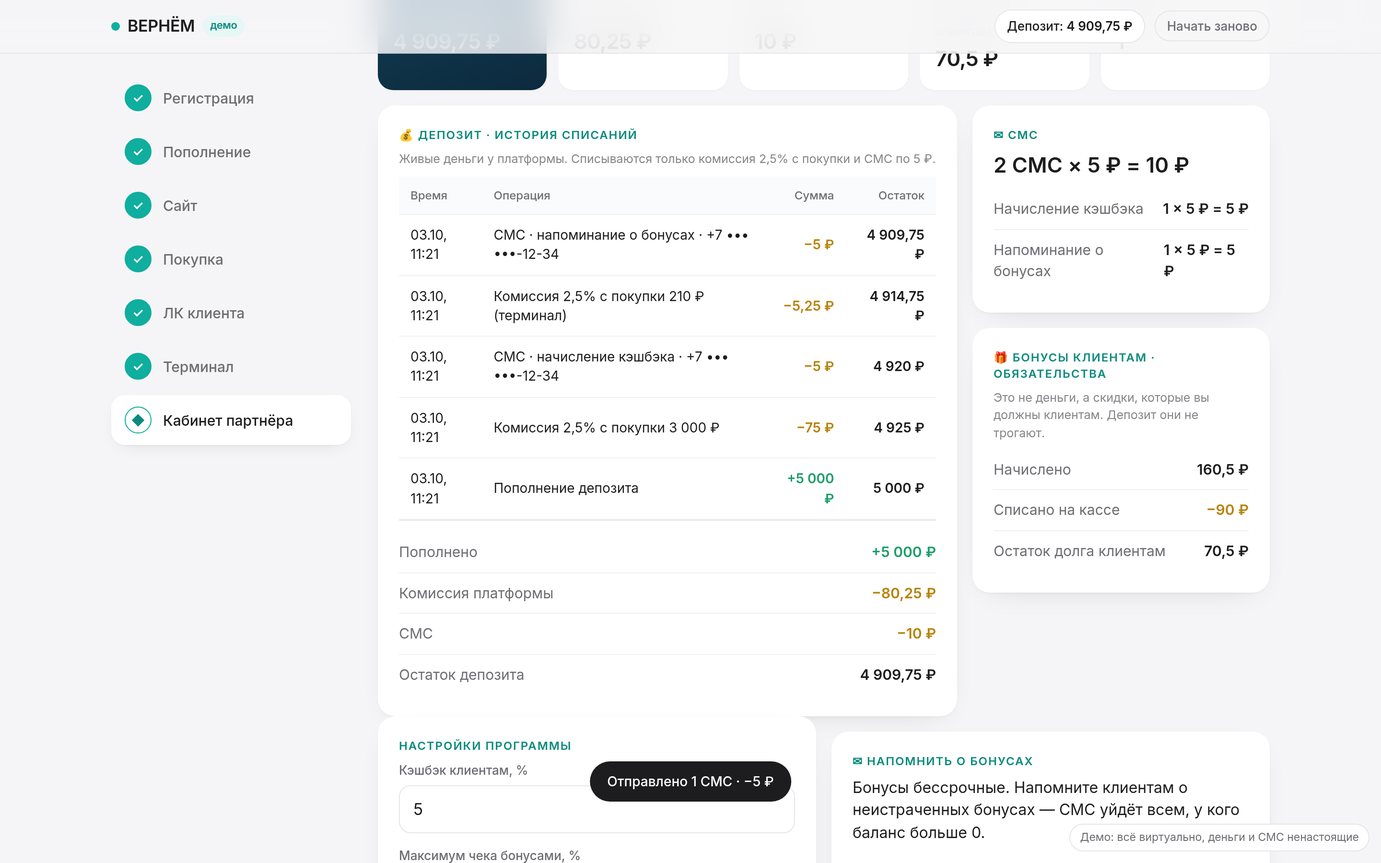
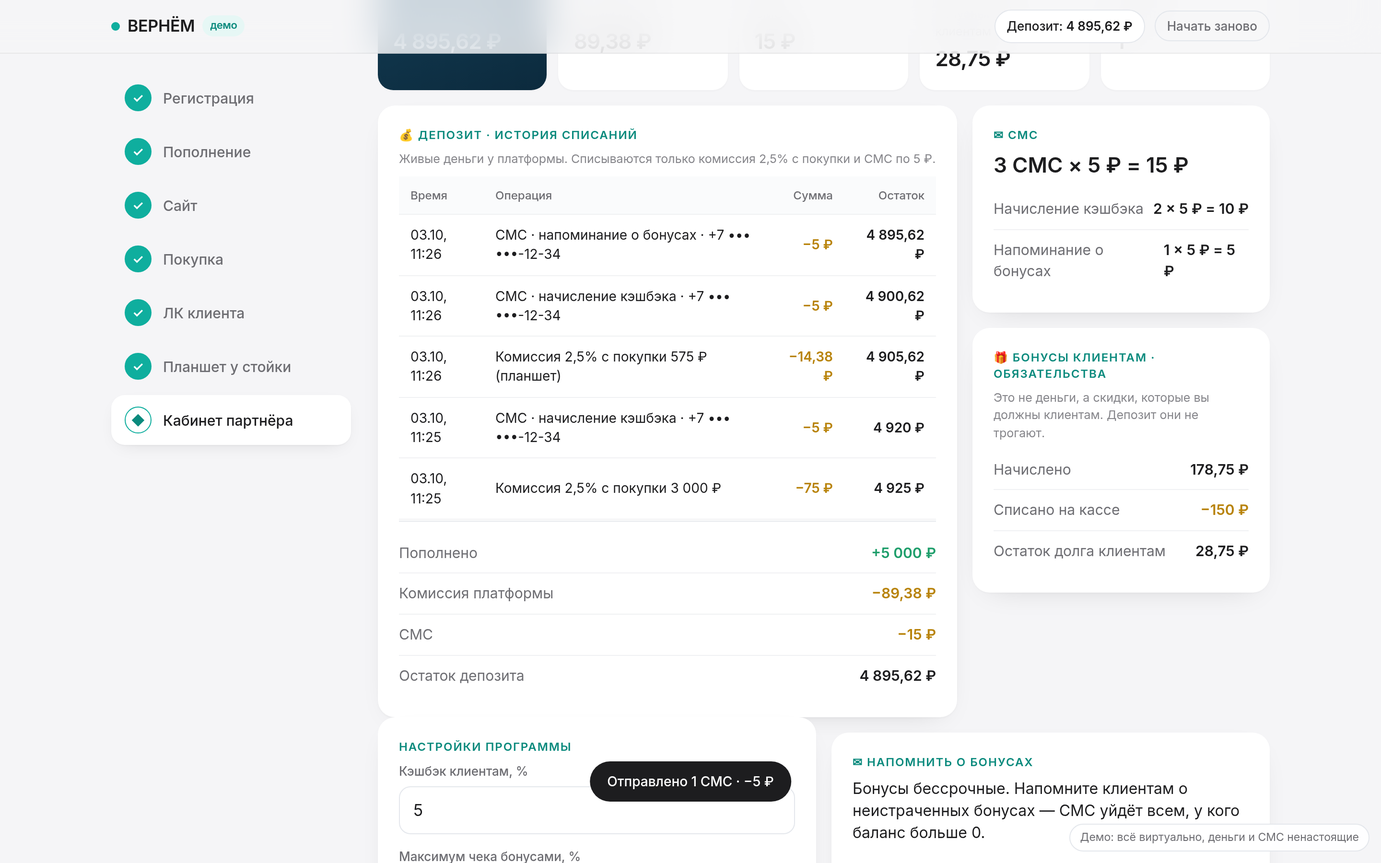
Step 6: self-service tablet at the counter (phone -> cabinet -> menu -> bonuses up to 30% -> code -> order)

diff --git a/demo/index.html b/demo/index.html
@@ -6,7 +6,7 @@
 <meta name="robots" content="noindex, nofollow">
 <meta name="googlebot" content="noindex, nofollow">
 <title>ВЕРНЁМ — интерактивное демо</title>
-<meta name="description" content="Виртуальное демо кэшбэк-платформы ВЕРНЁМ: регистрация партнёра, сайт, покупка, кэшбэк, ЛК клиента, терминал.">
+<meta name="description" content="Виртуальное демо кэшбэк-платформы ВЕРНЁМ: регистрация партнёра, сайт, покупка, кэшбэк, ЛК клиента, планшет у стойки.">
 <meta property="og:title" content="ВЕРНЁМ — интерактивное демо">
 <meta property="og:image" content="https://verniom.github.io/og.jpg">
 <meta property="og:url" content="https://verniom.github.io/demo/">
@@ -280,6 +280,34 @@ tr.me td{background:var(--tint)}tr.tot td{font-weight:600;border-top:1.5px solid
 .bal .s{font-weight:600}
 
 .stage.s5{grid-template-columns:300px minmax(0,1fr)}.stage.s6{grid-template-columns:320px minmax(0,1fr)}
+.tablet{max-width:1024px;margin:0 auto 10px;background:#1D1D1F;border-radius:30px;padding:14px;box-shadow:0 30px 60px -28px rgba(16,24,40,.45)}
+.tscreen{background:#FAFAFA;border-radius:18px;aspect-ratio:16/10;overflow:hidden;display:flex;flex-direction:column;color:var(--ink)}
+.ttop{display:flex;justify-content:space-between;align-items:center;padding:12px 18px;background:#fff;border-bottom:1px solid #EEE;font-size:15px}.tmeta{font-size:13px;color:var(--grey)}
+.tlink{background:none;border:none;color:var(--brand-d);font:inherit;cursor:pointer;padding:0}
+.tphone{flex:1;display:grid;grid-template-columns:1fr 1fr;gap:24px;align-items:center;padding:20px 36px}
+.tph-l h3{font-size:26px;margin:0 0 8px;font-weight:600;letter-spacing:-.01em}.tph-l p{color:var(--grey);margin:0 0 18px;font-size:15px}
+.tdisp{font-size:28px;font-weight:600;letter-spacing:.02em;padding:14px 18px;background:#fff;border-radius:16px;border:1px solid #EAEAEA}.tdisp span{color:#C7C7CC}.tdisp.code{letter-spacing:.3em;text-align:center}
+.tquick{margin-top:12px;border:1px solid var(--brand);background:var(--tint);color:var(--brand-d);border-radius:980px;padding:10px 16px;font:inherit;font-size:14px;cursor:pointer}
+.tpad{display:grid;grid-template-columns:repeat(3,1fr);gap:10px;max-width:330px;margin-left:auto}
+.tk{height:58px;border-radius:16px;border:none;background:#fff;box-shadow:0 1px 0 #E5E5EA;font:inherit;font-size:22px;cursor:pointer}.tk.ok{background:var(--brand);color:#fff}
+.tcab{flex:1;display:grid;grid-template-columns:250px 1fr;min-height:0}
+.tside{background:#fff;border-right:1px solid #EEE;padding:16px;display:flex;flex-direction:column;gap:12px;overflow:auto}
+.thello{font-size:20px;font-weight:600}.tbal{background:var(--tint);border-radius:16px;padding:12px}.tbal small,.thist small{display:block;font-size:12px;color:var(--grey)}.tbal b{display:block;font-size:28px;font-weight:700;color:var(--brand-d);margin:2px 0}.tbal span{font-size:11.5px;color:var(--grey)}
+.thist div{display:flex;justify-content:space-between;gap:8px;font-size:12.5px;padding:6px 0;border-bottom:1px solid #F2F2F2}.thist b{font-weight:600;white-space:nowrap}
+.tmenu{display:flex;flex-direction:column;min-height:0;padding:14px 16px}.tmh{font-size:18px;font-weight:600;margin-bottom:10px}
+.tgrid{flex:1;display:grid;grid-template-columns:repeat(3,1fr);gap:10px;overflow:auto;align-content:start}
+.tcard{background:#fff;border-radius:16px;border:1.5px solid transparent;position:relative}.tcard.on{border-color:var(--brand)}
+.tadd{width:100%;background:none;border:none;font:inherit;text-align:left;padding:10px 12px;cursor:pointer;display:flex;flex-direction:column;gap:2px}.tadd .pic{width:56px;height:56px}
+.tn{font-size:14px;font-weight:500;line-height:1.25}.td{font-size:11.5px;color:var(--grey)}.tp{font-size:14px;font-weight:600;margin-top:2px}
+.tq{position:absolute;right:8px;top:8px;display:flex;align-items:center;gap:8px;background:var(--tint);border-radius:980px;padding:3px}.tq button{width:28px;height:28px;border-radius:50%;border:none;background:#fff;font-size:16px;cursor:pointer}.tq b{min-width:12px;text-align:center}
+.tbar{margin-top:10px;display:flex;justify-content:space-between;align-items:center;border:none;border-radius:980px;background:var(--brand);color:#fff;font:inherit;font-size:15px;padding:14px 22px;cursor:pointer}.tbar:disabled{background:#D1D1D6;cursor:default}
+.tco{flex:1;display:grid;grid-template-columns:1fr 1fr;gap:20px;padding:18px 26px;overflow:auto}.tco h3{margin:0 0 8px;font-size:20px;font-weight:600}
+.tuse{background:#fff;border-radius:16px;padding:12px 14px;margin-bottom:8px}.tuse small{font-size:12px;color:var(--grey)}.tuse-row{display:flex;align-items:center;justify-content:space-between;margin:6px 0}.tuse-row b{font-size:24px;font-weight:700;color:var(--brand-d)}
+.tuse-row button,.tuse-q button{border:1px solid #E5E5EA;background:#fff;border-radius:980px;font:inherit;cursor:pointer}.tuse-row button{width:40px;height:40px;font-size:20px}.tuse input{width:100%;accent-color:#0FAE9E}.tuse-q{display:flex;gap:8px}.tuse-q button{padding:6px 12px;font-size:13px}
+.tdone{flex:1;display:flex;flex-direction:column;align-items:center;justify-content:center;text-align:center;padding:18px}.tok{width:64px;height:64px;border-radius:50%;background:var(--tint);color:var(--brand-d);font-size:32px;display:flex;align-items:center;justify-content:center}
+.tdone h3{font-size:26px;margin:12px 0 4px;font-weight:600}.tdone p{color:var(--grey);margin:0 0 14px}.tdone-k{display:grid;grid-template-columns:repeat(4,1fr);gap:10px;margin-bottom:14px}.tdone-k div{background:#fff;border-radius:14px;padding:10px 14px}.tdone-k small{display:block;font-size:12px;color:var(--grey)}.tdone-k b{font-size:17px}
+@media (max-width:820px){.tablet{padding:6px;border-radius:22px;margin:0 -4px 10px}.tscreen{aspect-ratio:auto;border-radius:16px}.tphone,.tco{grid-template-columns:1fr;padding:16px;gap:14px}.tpad{margin:0 auto;max-width:none}.tph-l h3{font-size:22px}
+ .tcab{grid-template-columns:1fr}.tside{border-right:none;border-bottom:1px solid #EEE}.thist{display:none}.tgrid{grid-template-columns:repeat(2,1fr);overflow:visible}.tdone-k{grid-template-columns:repeat(2,1fr)}}
 @media (max-width:980px){.stage.s5,.stage.s6{grid-template-columns:minmax(0,1fr)}.kpis{grid-template-columns:repeat(2,1fr)}.stage{grid-template-columns:minmax(0,1fr)}}
 @media (max-width:820px){
  .layout{grid-template-columns:1fr;gap:14px;padding:12px 12px 90px}
@@ -314,7 +342,7 @@ tr.me td{background:var(--tint)}tr.tot td{font-weight:600;border-top:1.5px solid
 (function(){
 'use strict';
 var KEY='verniom_demo_v2',DAY=864e5,LOW=1000;
-var STEPS=[[1,'Регистрация'],[2,'Пополнение'],[3,'Сайт'],[4,'Покупка'],[5,'ЛК клиента'],[6,'Терминал'],[7,'Кабинет партнёра']];
+var STEPS=[[1,'Регистрация'],[2,'Пополнение'],[3,'Сайт'],[4,'Покупка'],[5,'ЛК клиента'],[6,'Планшет у стойки'],[7,'Кабинет партнёра']];
 var ADDR='ул. Братиславская, 14, Москва',HOURS='Ежедневно 8:00–22:00';
 var OTHER0={name:'Автомойка «Блеск»',bal:120,exp:'15.12.2026'},OTHER1={name:'kofa',bal:120,exp:'15.12.2026'},OTHER=OTHER0;
 function coffee(n){n=String(n||'').trim()||'kofa';return /кофейн|кафе|cafe|coffee|кофе(?![а-яё])/i.test(n)?n:'кофейня '+n;}
@@ -644,74 +672,94 @@ function v5(){
   '<div class="bal"><div class="t nett">'+logo(26)+esc(p.name)+'</div><div class="s" data-t="cbal">'+fmt(c.balance)+'</div><p>+'+p.cb+'% с покупки · только здесь · бессрочно</p></div>'+
   '<div class="bal2"><div class="nett">'+initAva(OTHER.name,30)+'<div><div class="t">'+esc(OTHER.name)+'</div><small>только в этой сети · бессрочно</small></div></div><b>'+fmt(OTHER.bal)+'</b></div>'+
   '<div class="lkc"><h4>История</h4>'+(c.hist.length?c.hist.slice(0,6).map(function(h){return '<div class="hr"><div>'+esc(h.txt)+'<small>'+h.t+' · '+fmt(h.amount)+'</small></div><div class="'+(h.d>=0?'plus':'minus')+'">'+(h.d>=0?'+':'−')+fmt(Math.abs(h.d))+'</div></div>';}).join(''):'<div class="hint">Пока пусто</div>')+'</div>'+
-  '<div class="lkc"><h4>PIN для оплаты в терминале</h4><div class="pinrow"><input id="pin" inputmode="numeric" maxlength="4" value="'+esc(c.pin)+'" aria-label="PIN"><button data-t="pin">Сохранить</button></div><div class="hint">По умолчанию 1234</div></div>'+
+  '<div class="lkc"><h4>PIN для заказа на планшете</h4><div class="pinrow"><input id="pin" inputmode="numeric" maxlength="4" value="'+esc(c.pin)+'" aria-label="PIN"><button data-t="pin">Сохранить</button></div><div class="hint">По умолчанию 1234</div></div>'+
   '</div></div></div></div>'+
   '<div class="card"><div class="eyebrow">Что видит клиент</div><div class="kv"><span>Телефон</span><b>'+esc(fmtPhone(c.phone))+'</b></div><div class="kv"><span>Бонусов в '+esc(qn(p.name))+'</span><b>'+fmt(c.balance)+'</b></div><div class="kv"><span>Бонусов в '+esc(qn(OTHER.name))+'</span><b>'+fmt(OTHER.bal)+'</b></div><div class="kv"><span>Всего начислено</span><b>'+fmt(c.accrued)+'</b></div><div class="kv"><span>Потрачено</span><b>'+fmt(c.spent)+'</b></div>'+
   '<div class="model"><b>Бонусы — внутри сети.</b> Кэшбэк из '+esc(qn(p.name))+' тратится только в '+esc(qn(p.name))+', бонусы '+esc(qn(OTHER.name))+' — только там. В одном кабинете клиент видит балансы всех сетей.</div>'+'<p class="hint">Вход по ссылке из SMS, без пароля. Бонусами можно оплатить до '+p.maxShare+'% чека в терминале по телефону и PIN.</p>'+
-  '<button class="btn wide next" data-t="to6">Оплатить бонусами в терминале →</button><button class="btn sec wide" style="margin-top:8px" data-t="back4">Купить ещё на сайте</button></div></div>';
+  '<button class="btn wide next" data-t="to6">Заказать на планшете у стойки →</button><button class="btn sec wide" style="margin-top:8px" data-t="back4">Купить ещё на сайте</button></div></div>';
 }
 function b5(){
   $('[data-t=pin]').onclick=function(){var v=digits($('#pin').value);if(v.length!==4){toast('PIN — 4 цифры');return;}client(S.last).pin=v;save();toast('PIN сохранён');};
   $('[data-t=to6]').onclick=function(){go(6);};$('[data-t=back4]').onclick=function(){go(4);};
 }
-/* ---------- STEP 6 ---------- */
-var T={st:'phone',ph:'',pin:'',amt:'',res:null};
-function calcT(c,a){var p=S.partner,cap=r2(a*p.maxShare/100),u=r2(Math.min(c.balance,cap)),pay=r2(a-u);return {cap:cap,u:u,pay:pay,cb:r2(pay*p.cb/100),comm:r2(pay*p.comm/100)};}
-function tscreen(){
-  var c=S.clients[normPhone(T.ph)];
-  if(T.st==='phone')return '<div class="lbl">Телефон клиента</div><div class="val">'+(T.ph?esc(T.ph):'<span style="opacity:.35">+7…</span>')+'</div><div class="sub">'+(S.last?'OK без ввода — клиент '+esc(maskPhone(S.last)):'Введите номер')+'</div>';
-  if(T.st==='pin')return '<div class="lbl">PIN клиента</div><div class="val">'+'•'.repeat(T.pin.length)+'<span style="opacity:.25">'+'•'.repeat(4-T.pin.length)+'</span></div><div class="sub">'+esc(maskPhone(T.ph))+'</div>';
-  if(T.st==='amt')return '<div class="lbl">Сумма покупки</div><div class="val">'+(T.amt||'0')+' ₽</div><div class="sub">Бонусов у клиента: '+fmt(c?c.balance:0)+' · до '+S.partner.maxShare+'% чека</div>';
-  if(T.st==='confirm'){var a=+T.amt,k=calcT(c,a);
-    return '<div class="lbl">Подтверждение</div><div class="kv"><span>Сумма</span><b>'+fmt(a)+'</b></div><div class="kv"><span>Бонусами (макс. '+S.partner.maxShare+'% = '+fmt(k.cap)+')</span><b>−'+fmt(k.u)+'</b></div><div class="kv"><span>Картой к оплате</span><b>'+fmt(k.pay)+'</b></div><div class="kv"><span>Новый кэшбэк</span><b>+'+fmt(k.cb)+'</b></div><div class="sub" style="margin-top:6px">OK — оплатить</div>';}
-  if(T.st==='done'){var r=T.res;return '<div class="lbl">Готово</div><div class="val" style="color:var(--green)">✓ Оплачено</div><div class="sub">Списано бонусов: '+fmt(r.used)+'<br>Картой: '+fmt(r.pay)+'<br>Начислено: +'+fmt(r.cb)+'<br>Баланс клиента: '+fmt(r.bal)+'</div><div class="sub" style="margin-top:8px">OK — новая операция</div>';}
-  return '';
+/* ---------- STEP 6: self-service tablet at the counter ---------- */
+var TB={st:'phone',ph:'',cart:{},use:null,code:'',order:null};
+function tbReset(){TB={st:'phone',ph:'',cart:{},use:null,code:'',order:null};}
+function tItems(){var ty=IN().type;
+  if(ty==='coffee')return MENU.slice(0,6).map(function(m){return {n:m[1],p:m[2],d:'',ic:pic(m[0])};});
+  return IN().items.slice(0,6).map(function(m){return {n:m[0],p:m[1],d:ty==='rent'?'за ночь':(m[2]||''),ic:VI.svg(m[3],m[4],'pic',56)};});}
+function tCart(){var it=tItems(),L=[],sum=0,n=0;Object.keys(TB.cart).forEach(function(i){var q=TB.cart[i];if(q>0&&it[i]){L.push({i:+i,n:it[i].n,p:it[i].p,q:q});sum+=it[i].p*q;n+=q;}});return {L:L,sum:r2(sum),n:n};}
+function tCalc(){var c=S.clients[normPhone(TB.ph)],p=S.partner,k=tCart(),cap=Math.floor(k.sum*p.maxShare/100),mx=Math.floor(Math.min(c?c.balance:0,cap));
+  var u=TB.use==null?mx:Math.max(0,Math.min(mx,TB.use)),pay=r2(k.sum-u);return {sum:k.sum,cap:cap,max:mx,u:u,pay:pay,cb:r2(pay*p.cb/100),comm:r2(pay*p.comm/100)};}
+function tPad(id){return '<div class="tpad">'+['1','2','3','4','5','6','7','8','9','del','0','ok'].map(function(k){return '<button class="tk'+(k==='ok'?' ok':'')+'" data-tk="'+k+'" data-pad="'+id+'">'+(k==='ok'?'→':k==='del'?'⌫':k)+'</button>';}).join('')+'</div>';}
+function tScreen(){
+  var p=S.partner,c=S.clients[normPhone(TB.ph)];
+  var top='<div class="ttop"><span class="nett">'+logo(26)+'<b>'+esc(p.name)+'</b></span><span class="tmeta">'+(TB.st!=='phone'&&c?esc(maskPhone(c.phone))+' · <button class="tlink" data-tb="out">выйти</button>':'Заказ у стойки')+'</span></div>';
+  if(TB.st==='phone')return top+'<div class="tphone"><div class="tph-l"><h3>Введите номер телефона</h3><p>Увидите свои бонусы в '+esc(qn(p.name))+' и сможете сразу сделать заказ</p><div class="tdisp">'+(TB.ph?esc(digits(TB.ph).length===11?fmtPhone(TB.ph):'+'+TB.ph):'<span>+7 (___) ___-__-__</span>')+'</div>'+
+    (S.last?'<button class="tquick" data-tb="me">Это я · '+esc(maskPhone(S.last))+'</button>':'')+'</div><div class="tph-r">'+tPad('ph')+'</div></div>';
+  if(TB.st==='cab'){var it=tItems(),k=tCart();
+    return top+'<div class="tcab"><aside class="tside"><div class="thello">Здравствуйте!</div><div class="tbal"><small>Ваши бонусы в '+esc(qn(p.name))+'</small><b>'+fmt(c.balance)+'</b><span>+'+p.cb+'% с каждого заказа · до '+p.maxShare+'% заказа бонусами</span></div>'+
+      '<div class="thist"><small>История</small>'+(c.hist.length?c.hist.slice(0,3).map(function(h){return '<div><span>'+esc(h.txt)+'</span><b class="'+(h.d>=0?'plus':'minus')+'">'+(h.d>=0?'+':'−')+fmt(Math.abs(h.d))+'</b></div>';}).join(''):'<div><span>Пока пусто</span></div>')+'</div></aside>'+
+      '<section class="tmenu"><div class="tmh">'+(IN().type==='booking'?'Услуги':IN().type==='rent'?'Квартиры':'Меню')+'</div><div class="tgrid">'+it.map(function(x,i){var q=TB.cart[i]||0;return '<div class="tcard'+(q?' on':'')+'"><button class="tadd" data-ti="'+i+'">'+x.ic+'<span class="tn">'+esc(x.n)+'</span>'+(x.d?'<span class="td">'+esc(x.d)+'</span>':'')+'<span class="tp">'+fmt(x.p)+'</span></button>'+(q?'<div class="tq"><button data-tm="'+i+'">−</button><b>'+q+'</b><button data-ti="'+i+'">+</button></div>':'')+'</div>';}).join('')+'</div>'+
+      '<button class="tbar" data-tb="checkout"'+(k.n?'':' disabled')+'><span>'+(k.n?k.n+' поз.':'Добавьте позиции')+'</span><b>'+(k.n?'Оформить · '+fmt(k.sum):'')+'</b></button></section></div>';}
+  if(TB.st==='checkout'){var k=tCart(),t=tCalc();
+    return top+'<div class="tco"><div class="tco-l"><h3>Ваш заказ</h3>'+k.L.map(function(l){return '<div class="kv"><span>'+esc(l.n)+' × '+l.q+'</span><b>'+fmt(l.p*l.q)+'</b></div>';}).join('')+'<div class="kv"><span><b>Итого</b></span><b>'+fmt(t.sum)+'</b></div><button class="tlink" data-tb="back">← изменить заказ</button></div>'+
+      '<div class="tco-r"><div class="tuse"><small>Списать бонусы · доступно '+fmt(c.balance)+', максимум '+p.maxShare+'% заказа = '+fmt(t.cap)+'</small><div class="tuse-row"><button data-tu="-">−</button><b data-t="tuse">'+fmt(t.u)+'</b><button data-tu="+">+</button></div>'+
+      '<input type="range" min="0" max="'+t.max+'" step="1" value="'+t.u+'" data-t="trange" aria-label="Сколько бонусов списать"><div class="tuse-q"><button data-tu="0">Не списывать</button><button data-tu="max">Максимум</button></div></div>'+
+      '<div class="kv"><span>Бонусами</span><b class="minus">−'+fmt(t.u)+'</b></div><div class="kv"><span>К оплате картой</span><b>'+fmt(t.pay)+'</b></div><div class="kv"><span>Новый кэшбэк '+p.cb+'%</span><b class="plus">+'+fmt(t.cb)+'</b></div>'+
+      '<button class="btn wide" data-tb="confirm">Подтвердить · '+fmt(t.pay)+'</button></div></div>';}
+  if(TB.st==='code')return top+'<div class="tphone"><div class="tph-l"><h3>Код из SMS</h3><p>Отправили код на '+esc(maskPhone(c.phone))+'. В демо код — <b>1234</b></p><div class="tdisp code">'+'•'.repeat(TB.code.length)+'<span>'+'•'.repeat(4-TB.code.length)+'</span></div></div><div class="tph-r">'+tPad('code')+'</div></div>';
+  if(TB.st==='done'){var o=TB.order;
+    return top+'<div class="tdone"><div class="tok">✓</div><h3>Заказ № '+o.no+' готовится</h3><p>Позовём, когда будет готово. SMS о кэшбэке отправлено.</p><div class="tdone-k"><div><small>Списано бонусов</small><b class="minus">−'+fmt(o.u)+'</b></div><div><small>Оплачено картой</small><b>'+fmt(o.pay)+'</b></div><div><small>Начислено</small><b class="plus">+'+fmt(o.cb)+'</b></div><div><small>Ваш баланс</small><b>'+fmt(o.bal)+'</b></div></div><button class="btn sec" data-tb="new">Новый заказ</button></div>';}
+  return top;
 }
 function v6(){
-  var c=S.clients[S.last],p=S.partner;
-  return head('Шаг 6','Оплата бонусами в терминале','Клиент называет телефон и PIN — бонусы списываются прямо на кассе (до '+p.maxShare+'% чека).')+
-  '<div class="stage s6"><div><div class="term"><div class="tlogo"><span>● ВЕРНЁМ POS</span><span>'+esc(p.name)+'</span></div><div class="tscr" id="tscr">'+tscreen()+'</div>'+
-  '<div class="keys">'+['1','2','3','4','5','6','7','8','9','del','0','ok'].map(function(k){return '<button class="key'+(k==='ok'?' ok':k==='del'?' del':'')+'" data-k="'+k+'">'+(k==='ok'?'OK':k==='del'?'⌫':k)+'</button>';}).join('')+'</div></div><p class="hint" style="text-align:center">Терминал (макет) · можно печатать с клавиатуры</p></div>'+
-  '<div><div class="card"><div class="eyebrow">Балансы</div><div class="kv"><span>Клиент '+esc(maskPhone(S.last))+'</span><b data-t="tcb">'+fmt(c?c.balance:0)+'</b></div><div class="kv"><span>Депозит '+esc(qn(p.name))+'</span><b>'+fmt(p.balance)+'</b></div><div class="kv"><span>Бонусный долг клиентам</span><b>'+fmt(Object.keys(S.clients).reduce(function(a,k){return a+S.clients[k].balance;},0))+'</b></div><div class="hint">PIN клиента: '+esc(c?c.pin:'1234')+' (подсказка для демо) · правило: бонусами не более '+p.maxShare+'% чека · списываются только бонусы сети '+esc(qn(p.name))+'</div></div>'+
-  '<div class="card"><div class="eyebrow">История операций</div>'+(S.tx.filter(function(t){return t.type==='purchase'||t.type==='terminal';}).slice(0,5).map(function(t){return '<div class="kv"><span>'+(t.type==='terminal'?'Терминал'+(t.used?' · бонусами −'+fmt(t.used):''):'Сайт: '+esc(t.item))+' · '+esc(maskPhone(t.phone))+'</span><b>'+fmt(t.amount)+'</b></div>';}).join('')||'<div class="hint">Пока нет</div>')+
-  (done(6)?'<button class="btn wide next" data-t="to7">Открыть кабинет партнёра →</button>':'')+'</div></div></div>';
+  var p=S.partner;
+  return head('Шаг 6','Планшет у стойки','Клиент сам заказывает на планшете: вводит телефон, видит свои бонусы, собирает заказ и списывает до '+p.maxShare+'% бонусами.')+
+  '<div class="tablet"><div class="tscreen" id="tscreen">'+tScreen()+'</div></div><p class="hint" style="text-align:center">Планшет самообслуживания (макет) · цифры можно вводить с клавиатуры</p>'+
+  '<div class="grid2"><div class="card" id="tsms"><div class="eyebrow">SMS клиенту</div><div class="minisms">'+(S.sms.length?S.sms.slice(0,1).map(smsHtml).join(''):'<div class="empty">Здесь появится SMS</div>')+'</div></div>'+
+  '<div class="card"><div class="eyebrow">Балансы</div><div class="kv"><span>Депозит '+esc(qn(p.name))+'</span><b>'+fmt(p.balance)+'</b></div><div class="kv"><span>Бонусный долг клиентам</span><b>'+fmt(Object.keys(S.clients).reduce(function(a,k){return a+S.clients[k].balance;},0))+'</b></div><div class="hint">Списываются только бонусы сети '+esc(qn(p.name))+'. С депозита: комиссия '+pcs(p.comm)+'% и SMS '+SMSFEE+' ₽.</div>'+
+  (done(6)?'<button class="btn wide next" data-t="to7">Открыть кабинет партнёра →</button>':'')+'</div></div>';
 }
-function tkey(k){
-  if(T.st==='done'){if(k==='ok'){T={st:'phone',ph:'',pin:'',amt:'',res:null};}refreshT();return;}
-  if(k==='del'){if(T.st==='phone')T.ph=T.ph.slice(0,-1);else if(T.st==='pin')T.pin=T.pin.slice(0,-1);else if(T.st==='amt')T.amt=T.amt.slice(0,-1);else if(T.st==='confirm')T.st='amt';refreshT();return;}
-  if(k==='ok'){
-    if(T.st==='phone'){var ph=normPhone(T.ph||S.last||'');if(!S.clients[ph]){toast('Клиент не найден — сначала покупка на сайте');return;}T.ph=fmtPhone(ph);T.st='pin';}
-    else if(T.st==='pin'){var c=S.clients[normPhone(T.ph)];if(T.pin!==c.pin){toast('Неверный PIN');T.pin='';refreshT();return;}T.st='amt';}
-    else if(T.st==='amt'){if(!(+T.amt>0)){toast('Введите сумму');return;}T.st='confirm';}
-    else if(T.st==='confirm'){payT();return;}
-    refreshT();return;
-  }
-  if(T.st==='phone'&&digits(T.ph).length<11)T.ph+=k;
-  else if(T.st==='pin'&&T.pin.length<4)T.pin+=k;
-  else if(T.st==='amt'&&T.amt.length<6&&!(T.amt===''&&k==='0'))T.amt+=k;
-  refreshT();
+function tRefresh(){var s=$('#tscreen');if(s){s.innerHTML=tScreen();bindT();}}
+function tKey(pad,k){
+  if(pad==='ph'){if(k==='del')TB.ph=TB.ph.slice(0,-1);else if(k==='ok'){var ph=normPhone(TB.ph);if(ph.length!==11){toast('Введите номер полностью');return;}if(!S.clients[ph]){toast('Клиент не найден — сначала покупка на сайте');return;}TB.ph=ph;TB.st='cab';TB.cart={};TB.use=null;}
+    else if(digits(TB.ph).length<11)TB.ph=(TB.ph===''&&k!=='7'&&k!=='8'?'7':'')+TB.ph+k;tRefresh();return;}
+  if(pad==='code'){if(k==='del')TB.code=TB.code.slice(0,-1);else if(k==='ok'){var c=S.clients[normPhone(TB.ph)];if(TB.code!=='1234'&&TB.code!==c.pin){toast('Неверный код');TB.code='';tRefresh();return;}payTB();return;}
+    else if(TB.code.length<4)TB.code+=k;tRefresh();if(TB.code.length===4)setTimeout(function(){if(TB.st==='code'&&TB.code.length===4)tKey('code','ok');},250);return;}
 }
-function payT(){
-  var ph=normPhone(T.ph),c=client(ph),p=S.partner,a=+T.amt,k=calcT(c,a);
-  if(p.balance<k.comm){toast('Недостаточно средств на депозите партнёра — пополните');return;}
-  processing(['Проверяем PIN…','Списываем бонусы…','Оплата картой…'],'Терминал').then(function(){
-    spendLots(c,k.u);addLot(c,k.cb);
-    c.balance=r2(c.balance-k.u+k.cb);c.spent=r2(c.spent+k.u);c.accrued=r2(c.accrued+k.cb);c.last=now();
-    if(k.u>0)c.hist.unshift({t:now(),txt:'Оплата бонусами (терминал)',amount:a,d:-k.u});
-    if(k.cb>0)c.hist.unshift({t:now(),txt:'Кэшбэк (терминал)',amount:k.pay,d:k.cb});
-    if(k.comm>0)led('comm','Комиссия '+pcs(p.comm)+'% с покупки '+fmt(k.pay)+' (терминал)',-k.comm);
-    tx({type:'terminal',phone:ph,amount:a,used:k.u,paid:k.pay,cb:k.cb,comm:k.comm});S.last=ph;
-    T.res={used:k.u,pay:k.pay,cb:k.cb,bal:c.balance};T.st='done';save();render();toast('Оплачено: бонусами '+fmt(k.u));});
+function bindT(){
+  $$('[data-tk]').forEach(function(b){b.onclick=function(){tKey(b.dataset.pad,b.dataset.tk);};});
+  $$('[data-ti]').forEach(function(b){b.onclick=function(){var i=b.dataset.ti;TB.cart[i]=(TB.cart[i]||0)+1;tRefresh();};});
+  $$('[data-tm]').forEach(function(b){b.onclick=function(){var i=b.dataset.tm;TB.cart[i]=Math.max(0,(TB.cart[i]||0)-1);tRefresh();};});
+  $$('[data-tu]').forEach(function(b){b.onclick=function(){var t=tCalc(),v=b.dataset.tu;TB.use=v==='max'?t.max:v==='0'?0:Math.max(0,Math.min(t.max,t.u+(v==='+'?10:-10)));tRefresh();};});
+  var rg=$('[data-t=trange]');if(rg)rg.oninput=function(){TB.use=+rg.value;tRefresh();var r=$('[data-t=trange]');if(r)r.focus();};
+  $$('[data-tb]').forEach(function(b){b.onclick=function(){var a=b.dataset.tb;
+    if(a==='me'){TB.ph=S.last;TB.st='cab';TB.cart={};TB.use=null;}
+    else if(a==='out'||a==='new')tbReset();
+    else if(a==='checkout'){if(!tCart().n)return;TB.st='checkout';TB.use=null;}
+    else if(a==='back')TB.st='cab';
+    else if(a==='confirm'){var t=tCalc();if(S.partner.balance<t.comm+SMSFEE){toast('Недостаточно средств на депозите партнёра — пополните');return;}TB.st='code';TB.code='';}
+    tRefresh();};});
 }
-function refreshT(){var s=$('#tscr');if(s)s.innerHTML=tscreen();}
-function b6(){
-  $$('[data-k]').forEach(function(b){b.onclick=function(){tkey(b.dataset.k);};});
-  var t=$('[data-t=to7]');if(t)t.onclick=function(){go(7);};
+function payTB(){
+  var ph=normPhone(TB.ph),c=client(ph),p=S.partner,t=tCalc(),k=tCart(),title=k.L.map(function(l){return l.n+(l.q>1?' ×'+l.q:'');}).join(', ');
+  processing(['Проверяем код…','Списываем бонусы…','Оплата картой…','Передаём заказ на бар…'],'Заказ').then(function(){
+    spendLots(c,t.u);addLot(c,t.cb);
+    c.balance=r2(c.balance-t.u+t.cb);c.spent=r2(c.spent+t.u);c.accrued=r2(c.accrued+t.cb);c.last=now();
+    if(t.u>0)c.hist.unshift({t:now(),txt:'Бонусами · планшет',amount:t.sum,d:-t.u});
+    if(t.cb>0)c.hist.unshift({t:now(),txt:'Кэшбэк · планшет',amount:t.pay,d:t.cb});
+    if(t.comm>0)led('comm','Комиссия '+pcs(p.comm)+'% с покупки '+fmt(t.pay)+' (планшет)',-t.comm);
+    var no=String(100+(S.tx.length*37)%900);
+    tx({type:'terminal',phone:ph,amount:t.sum,used:t.u,paid:t.pay,cb:t.cb,comm:t.comm,item:title,no:no});S.last=ph;
+    sendSms({k:'cb',cb:t.cb,partner:p.name,phone:ph});
+    TB.order={no:no,u:t.u,pay:t.pay,cb:t.cb,bal:c.balance};TB.st='done';save();render();toast('Заказ № '+no+' принят');});
 }
-document.addEventListener('keydown',function(e){if(S.step!==6||/input|textarea/i.test((e.target||{}).tagName||''))return;if(/^\d$/.test(e.key))tkey(e.key);else if(e.key==='Backspace')tkey('del');else if(e.key==='Enter')tkey('ok');});
+function b6(){bindT();var t=$('[data-t=to7]');if(t)t.onclick=function(){go(7);};}
+document.addEventListener('keydown',function(e){if(S.step!==6||/input|textarea/i.test((e.target||{}).tagName||''))return;var pad=TB.st==='phone'?'ph':TB.st==='code'?'code':null;if(!pad)return;if(/^\d$/.test(e.key))tKey(pad,e.key);else if(e.key==='Backspace')tKey(pad,'del');else if(e.key==='Enter')tKey(pad,'ok');});
 /* ---------- STEP 7: partner cabinet ---------- */
 function stats(){var s={acc:0,used:0,comm:0,top:0,turn:0};S.tx.forEach(function(t){if(t.type==='topup')s.top+=t.amount;else if(t.type==='expire')return;else{s.acc+=t.cb||0;s.used+=t.used||0;s.comm+=t.comm||0;s.turn+=t.amount||0;}});for(var k in s)s[k]=r2(s[k]);return s;}
-function typeName(t){return t.type==='topup'?'Пополнение':t.type==='terminal'?'Терминал':'Сайт · '+t.item;}
+function typeName(t){return t.type==='topup'?'Пополнение':t.type==='terminal'?'Планшет у стойки'+(t.no?' · № '+t.no:''):'Сайт · '+t.item;}
 function chart(){
   var act=S.tx.filter(function(t){return t.cb||t.used;}),last=act.length?act[0].ts:vnow(),days=[];
   for(var i=6;i>=0;i--){var ts=last-i*DAY;days.push({k:dayKey(ts),l:dshort(ts),a:0,u:0});}
@@ -773,7 +821,7 @@ function b7(){
 /* ---------- render ---------- */
 var V={1:[v1,b1],2:[v2,b2],3:[v3,b3],4:[v4,b4],5:[v5,b5],6:[v6,b6],7:[v7,b7]};
 function render(){if(!avail(S.step))S.step=1;renderSteps();var v=V[S.step];$('#view').innerHTML=v[0]();v[1]();}
-$('#reset').onclick=function(){if(!confirm('Сбросить демо и начать заново?'))return;S=blank();T={st:'phone',ph:'',pin:'',amt:'',res:null};lastBreak=null;siteMode=null;bkReset();save();render();toast('Демо сброшено');};
+$('#reset').onclick=function(){if(!confirm('Сбросить демо и начать заново?'))return;S=blank();tbReset();lastBreak=null;siteMode=null;bkReset();save();render();toast('Демо сброшено');};
 window.__demo={state:function(){return S;},pay:function(t,p){payModal(t,p);}};
 render();
 })();

diff --git a/demo/admin/index.html b/demo/admin/index.html
@@ -244,13 +244,13 @@ function seed(id,name,kind,cb,ms,clients,top,issued,redeemed,sms,tops,ops){
 var SEED=[
  seed('s1','Кофейня «Бариста»','Кофейня',5,30,214,40000,24315,9870,{cb:430,rem:90},
    [['79031234455',412],['79167780912',356],['79264410023',301],['79858812201',244],['79991200087',198]],
-   [['02.10, 18:40','Покупка','79031234455',640,32,0,16],['02.10, 17:12','Терминал','79167780912',520,20,120,10],['01.10, 09:05','Пополнение','',10000,0,0,0]]),
+   [['02.10, 18:40','Покупка','79031234455',640,32,0,16],['02.10, 17:12','Планшет у стойки','79167780912',520,20,120,10],['01.10, 09:05','Пополнение','',10000,0,0,0]]),
  seed('s2','Автомойка «Блеск»','Автомойка',7,50,139,19000,42896,21050,{cb:520,rem:90},
    [['79035550101',890],['79152203344',760],['79268871200',655],['79037789012',540],['79254400190',410]],
-   [['03.10, 07:58','Терминал','79035550101',2400,84,1200,30],['02.10, 19:20','Покупка','79152203344',1800,126,0,45],['29.09, 12:00','Пополнение','',5000,0,0,0]]),
+   [['03.10, 07:58','Планшет у стойки','79035550101',2400,84,1200,30],['02.10, 19:20','Покупка','79152203344',1800,126,0,45],['29.09, 12:00','Пополнение','',5000,0,0,0]]),
  seed('s3','Фитнес «Пульс»','Фитнес-клуб',10,20,87,30000,93450,38200,{cb:280,rem:60},
    [['79161112233',2450],['79267776655',1980],['79035554433',1720],['79857771122',1510],['79998880011',1240]],
-   [['03.10, 07:10','Покупка','79161112233',6900,690,0,172.5],['02.10, 21:30','Терминал','79267776655',4500,360,900,90],['15.09, 10:00','Пополнение','',10000,0,0,0]])
+   [['03.10, 07:10','Покупка','79161112233',6900,690,0,172.5],['02.10, 21:30','Планшет у стойки','79267776655',4500,360,900,90],['15.09, 10:00','Пополнение','',10000,0,0,0]])
 ];
 function initAva(n,sz,bg){sz=sz||40;var ch=String(n).replace(/^[^«]*«/,'').charAt(0).toUpperCase();return '<svg class="ava" width="'+sz+'" height="'+sz+'" viewBox="0 0 64 64" aria-hidden="true"><circle cx="32" cy="32" r="31" fill="'+(bg||'#E6F7F5')+'"/><text x="32" y="41" text-anchor="middle" font-family="Inter,sans-serif" font-size="26" font-weight="600" fill="#0A8A7D">'+ch+'</text></svg>';}
 function qn(n){n=String(n);return /[«"]/.test(n)?n:'«'+n+'»';}
@@ -260,7 +260,7 @@ function mine(S){
   (S.tx||[]).forEach(function(t){if(t.type==='topup')x.top+=t.amount;else if(t.type==='expire')return;else{x.issued+=t.cb||0;x.redeemed+=t.used||0;x.comm+=t.comm||0;x.turn+=t.amount||0;}});
   var cl=Object.keys(S.clients||{}).map(function(k){return S.clients[k];}),out=cl.reduce(function(a,c){return a+(c.balance||0);},0);
   var sm={n:0,sum:0,by:{cb:0,rem:0}};(S.led||[]).forEach(function(l){if(l.kind==='sms'){sm.n++;sm.sum=r2(sm.sum-l.d);sm.by[l.sk]=(sm.by[l.sk]||0)+1;}});
-  var tn=function(t){return t.type==='topup'?'Пополнение':t.type==='terminal'?'Терминал':'Покупка · '+t.item;};
+  var tn=function(t){return t.type==='topup'?'Пополнение':t.type==='terminal'?'Планшет у стойки':'Покупка · '+t.item;};
   return {id:'me',me:1,name:p.name,ind:(VI.IND[p.ind]?p.ind:'coffee'),kind:(VI.IND[p.ind]||VI.IND.coffee).t+' · ваш демо-партнёр',cb:p.cb,ms:p.maxShare,clients:cl.length,top:r2(x.top),issued:r2(x.issued),comm:r2(x.comm),redeemed:r2(x.redeemed),
     remaining:r2(p.balance),outstanding:r2(out),turn:r2(x.turn),commPct:2.5,smsN:sm.n,smsFee:sm.sum,smsBy:sm.by,rev:r2(x.comm+sm.sum),
     led:(S.led||[]).slice(0,20).map(function(l){return [l.t,l.txt,l.d,l.bal];}),
